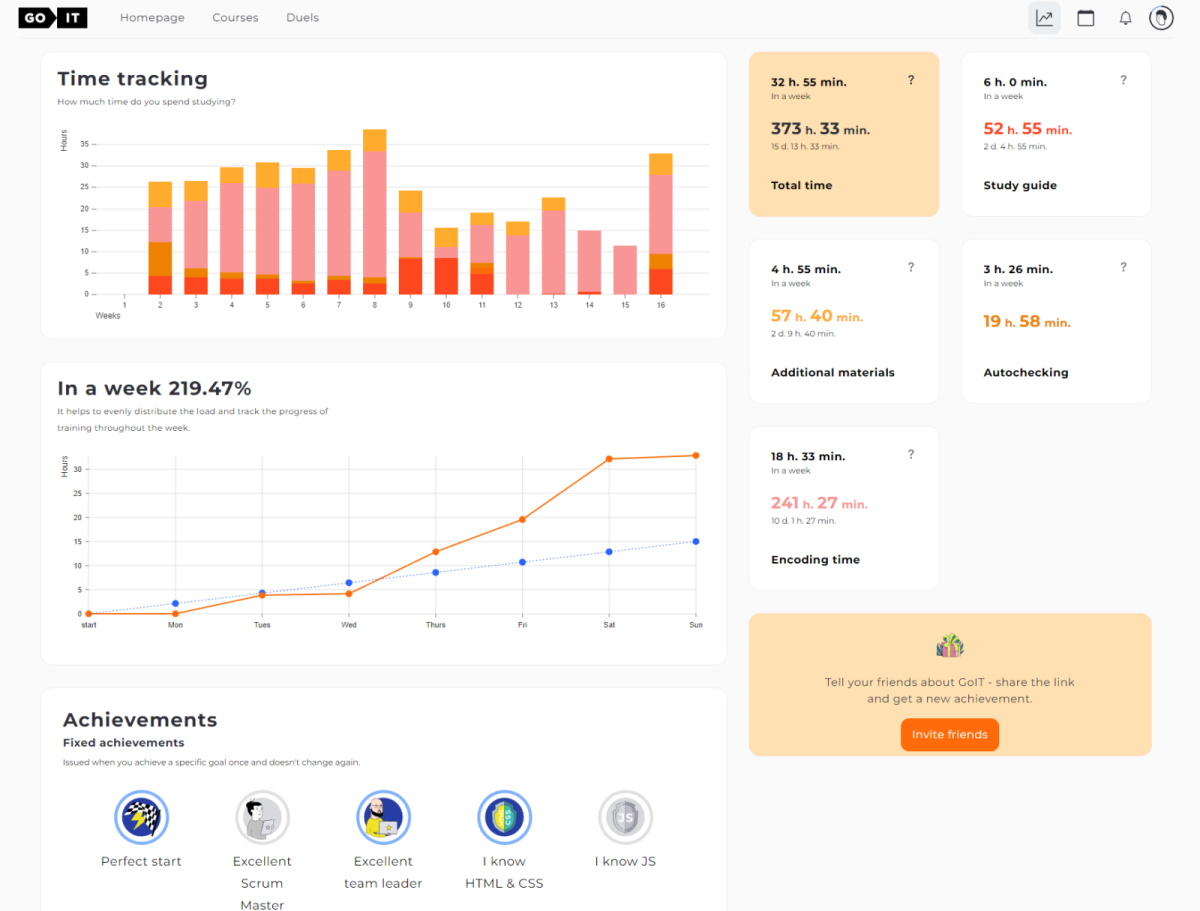
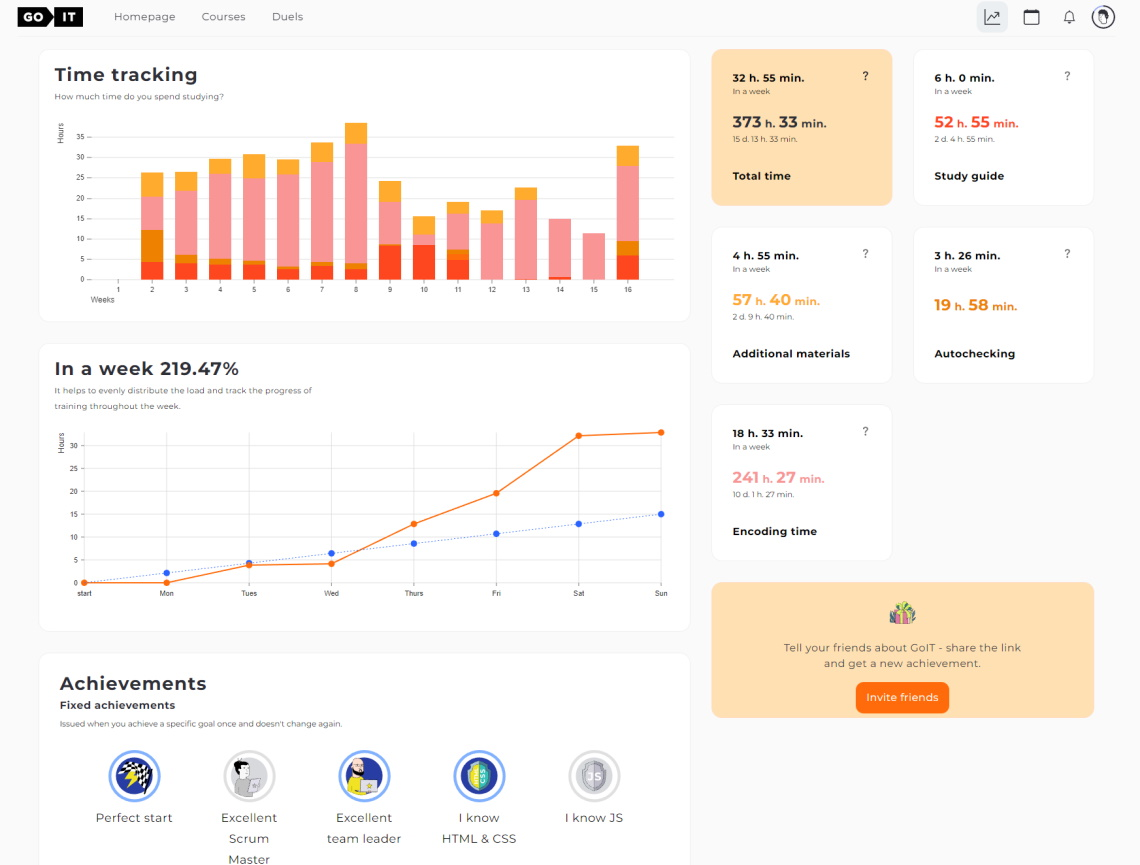
add

diff --git a/progress.html b/progress.html
@@ -14,7 +14,7 @@
 <body>
 
      <div class="thumb">
-      <img class="thumb-img" src="./img/progress.jpg" width="1200" height="911" alt="progress" />
+      <img class="thumb-img" src="./img/progress.jpg" width="1140" height="865" alt="progress" />
     </div>
     <a href="./index.html" class="button btn">Back</a>
     
